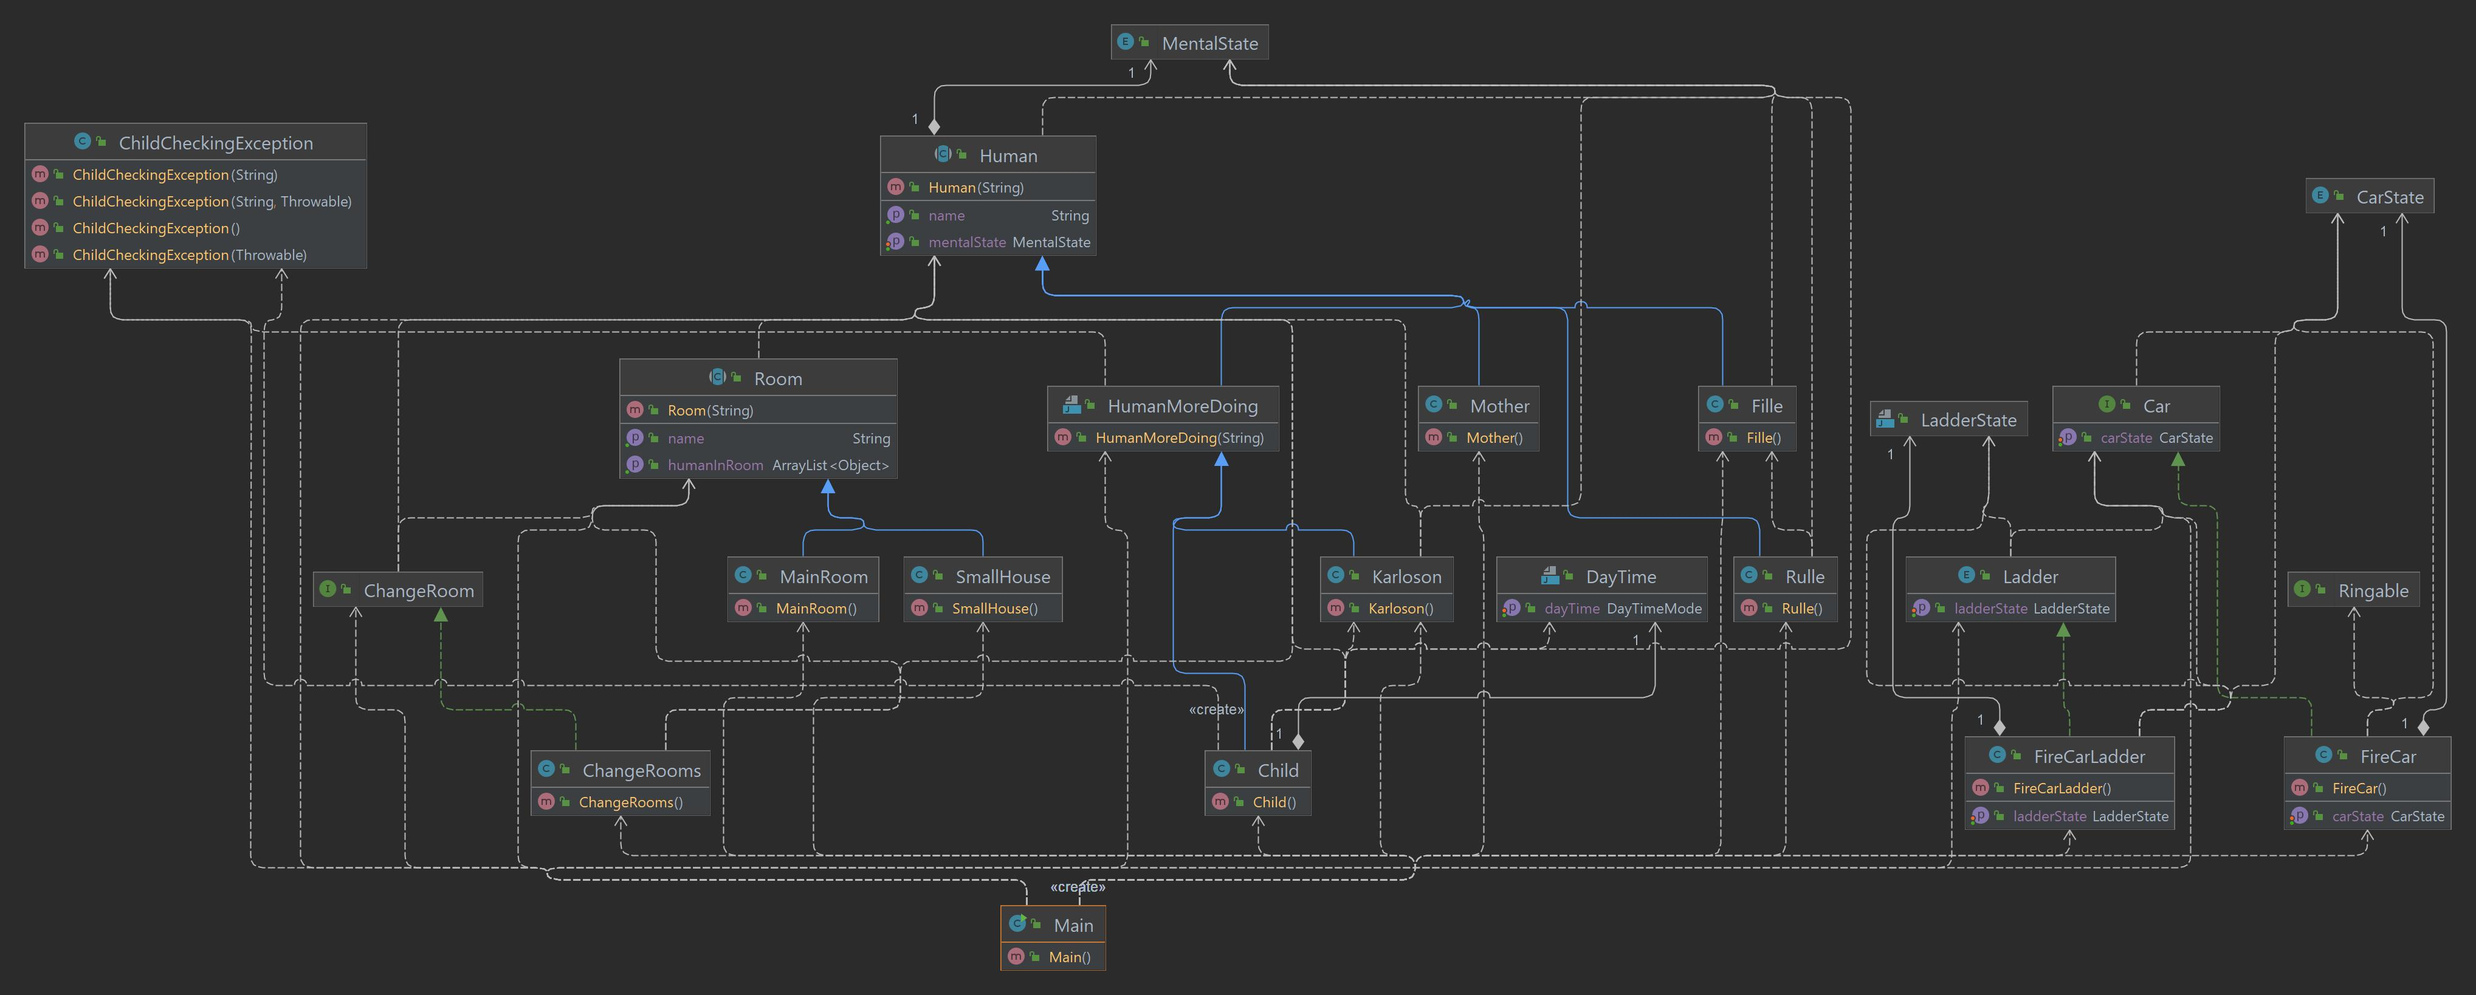
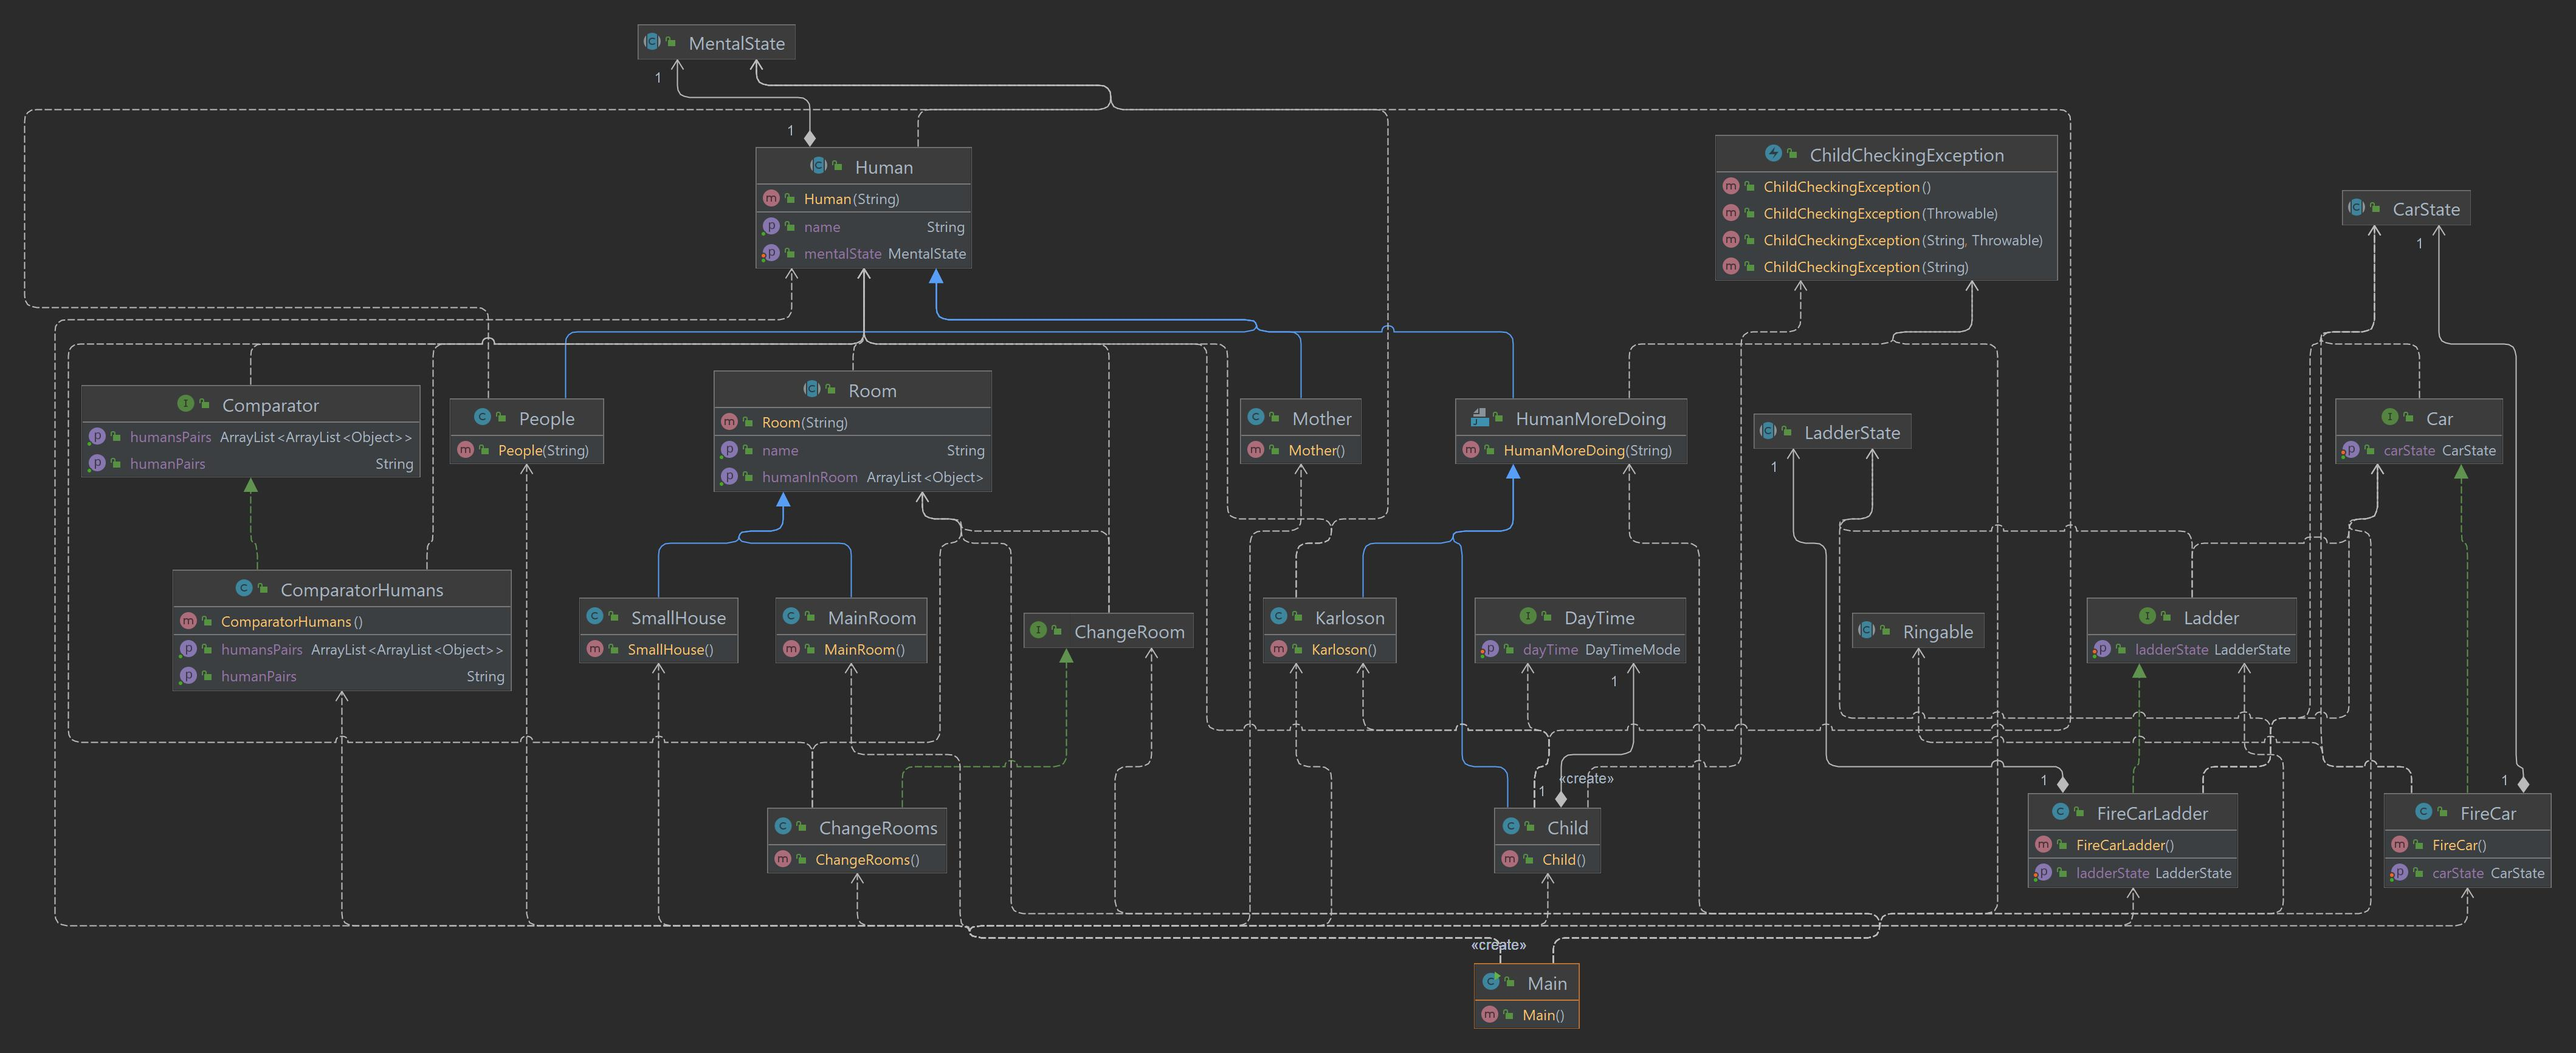
fix some errors

diff --git a/src/lab4/doing/Main.java b/src/lab4/doing/Main.java
@@ -4,12 +4,14 @@ import doing.ChangeRooms;
 import doing.MainRoom;
 import doing.Mother;
 import lab4.superclasses.Car;
-import lab4.superclasses.DayTime;
+import lab4.superclasses.Comparator;
 import lab4.superclasses.HumanMoreDoing;
 import lab4.superclasses.Ladder;
 import superclasses.ChangeRoom;
 import superclasses.Human;
 import superclasses.Room;
+
+import java.util.Arrays;
 
 public class Main {
     public static void main(String[] args) {
@@ -19,29 +21,33 @@ public class Main {
 
         HumanMoreDoing karloson = new Karloson();
         HumanMoreDoing child = new Child();
-        Human fille = new Fille();
-        Human rulle = new Rulle();
+        Human fille = new People("Филле");
+        Human rulle = new People("Рулле");
         Human mother = new Mother();
+
+        Human[] humans = new Human[] {
+                fille, rulle
+        };
+
 
         Room mainRoom = new MainRoom();
         Room smallHouse = new SmallHouse();
 
+        Arrays.stream(humans).forEach(mainRoom::addHumanInRoom);
         mainRoom.addHumanInRoom(child);
-        mainRoom.addHumanInRoom(rulle);
-        mainRoom.addHumanInRoom(fille);
         mainRoom.addHumanInRoom(karloson);
 
         ChangeRoom changeRooms = new ChangeRooms();
-
+        ComparatorHumans comparatorHumans = new ComparatorHumans();
         child.doSomething(null);
-        rulle.doSomething(null);
-        fille.doSomething(null);
+        Arrays.stream(humans).forEach(human -> human.doSomething(null));
         karloson.doSomething(null);
         child.doSomethingFirst(null);
         child.doSomethingSecond(null);
         changeRooms.changeRoom(child, mainRoom, smallHouse);
         changeRooms.changeRoom(karloson, mainRoom, smallHouse);
         try {
+            comparatorHumans.comparator(child, karloson);
             System.out.println(child.doSomethingWithHuman(karloson));
         } catch (ChildCheckingException e) {
             e.printStackTrace(System.err);
@@ -57,7 +63,7 @@ public class Main {
         }
         fireCar.stop();
         try {
-            fireCarLadder.extendLadder();
+            fireCarLadder.extendLadder(fireCar);
         } catch (RuntimeException e){
             System.err.println(e.getMessage());
         }
@@ -67,11 +73,12 @@ public class Main {
             System.err.println(e.getMessage());
         }
         try {
-            fireCarLadder.extendLadder();
+            fireCarLadder.extendLadder(fireCar);
         } catch (RuntimeException e){
             System.err.println(e.getMessage());
         }
         child.doSomethingThird(mother);
+        comparatorHumans.unComparator(child, karloson);
         try {
             System.out.println(child.doSomethingWithHuman(mother));
         } catch (ChildCheckingException e) {

diff --git a/src/lab4/doing/ComparatorHumans.java b/src/lab4/doing/ComparatorHumans.java
@@ -1,0 +1,39 @@
+package lab4.doing;
+
+import lab4.superclasses.Comparator;
+import superclasses.Human;
+
+import java.util.ArrayList;
+
+public class ComparatorHumans implements Comparator {
+    private final ArrayList<ArrayList<Object>> humanPair = new ArrayList<>();
+
+    @Override
+    public void comparator(Human human, Human human1) {
+        ArrayList<Object> humans = new ArrayList<>();
+        humans.add(human);
+        humans.add(human1);
+        humanPair.add(humans);
+        System.out.println("взялись за руки и пошли " + humans);
+    }
+
+    @Override
+    public void unComparator(Human human, Human human1) {
+        ArrayList<Object> humans = new ArrayList<>();
+        humans.add(human);
+        humans.add(human1);
+        humanPair.remove(humans);
+        System.out.println("Перестали идти вместе " + humans);
+    }
+
+    @Override
+    @SuppressWarnings("unchecked")
+    public ArrayList<ArrayList<Object>> getHumansPairs() {
+        return (ArrayList<ArrayList<Object>>) humanPair.clone();
+    }
+
+    @Override
+    public String getHumanPairs() {
+        return "вместе идут " + getHumansPairs();
+    }
+}

diff --git a/src/lab4/doing/People.java b/src/lab4/doing/People.java
@@ -3,11 +3,12 @@ package lab4.doing;
 import superclasses.Human;
 import superclasses.MentalState;
 
-public class Fille extends Human {
-    private static final String name = "Филле";
+public class People extends Human {
+    private final String name;
 
-    public Fille() {
+    public People(String name) {
         super(name);
+        this.name = name;
     }
 
     @Override
@@ -30,6 +31,6 @@ public class Fille extends Human {
 
     @Override
     public boolean equals(Object o) {
-        return super.equals(o) && o instanceof Fille;
+        return super.equals(o) && o instanceof People;
     }
 }

diff --git a/src/lab4/doing/FireCarLadder.java b/src/lab4/doing/FireCarLadder.java
@@ -10,9 +10,9 @@ public class FireCarLadder implements Ladder {
     private LadderState ladderState = LadderState.DOWN;
 
     @Override
-    public void extendLadder(){
+    public void extendLadder(Car car){
         if (getLadderState() == LadderState.DOWN)
-            throw new FireCarLadderCheckingException(this + " опущена, выдвинуть невозможно");
+            upLadder(car);
         else {
             System.out.println(this + " выдвинута");
         }

diff --git a/src/lab4/superclasses/Comparator.java b/src/lab4/superclasses/Comparator.java
@@ -1,0 +1,12 @@
+package lab4.superclasses;
+
+import superclasses.Human;
+
+import java.util.ArrayList;
+
+public interface Comparator {
+    void comparator(Human human, Human human1);
+    void unComparator(Human human, Human human1);
+    ArrayList<ArrayList<Object>> getHumansPairs();
+    String getHumanPairs();
+}

diff --git a/src/lab4/superclasses/Ladder.java b/src/lab4/superclasses/Ladder.java
@@ -1,7 +1,7 @@
 package lab4.superclasses;
 
 public interface Ladder {
-    void extendLadder();
+    void extendLadder(Car car);
     void upLadder(Car car);
     LadderState getLadderState();
     void setLadderState(LadderState ladderState);
